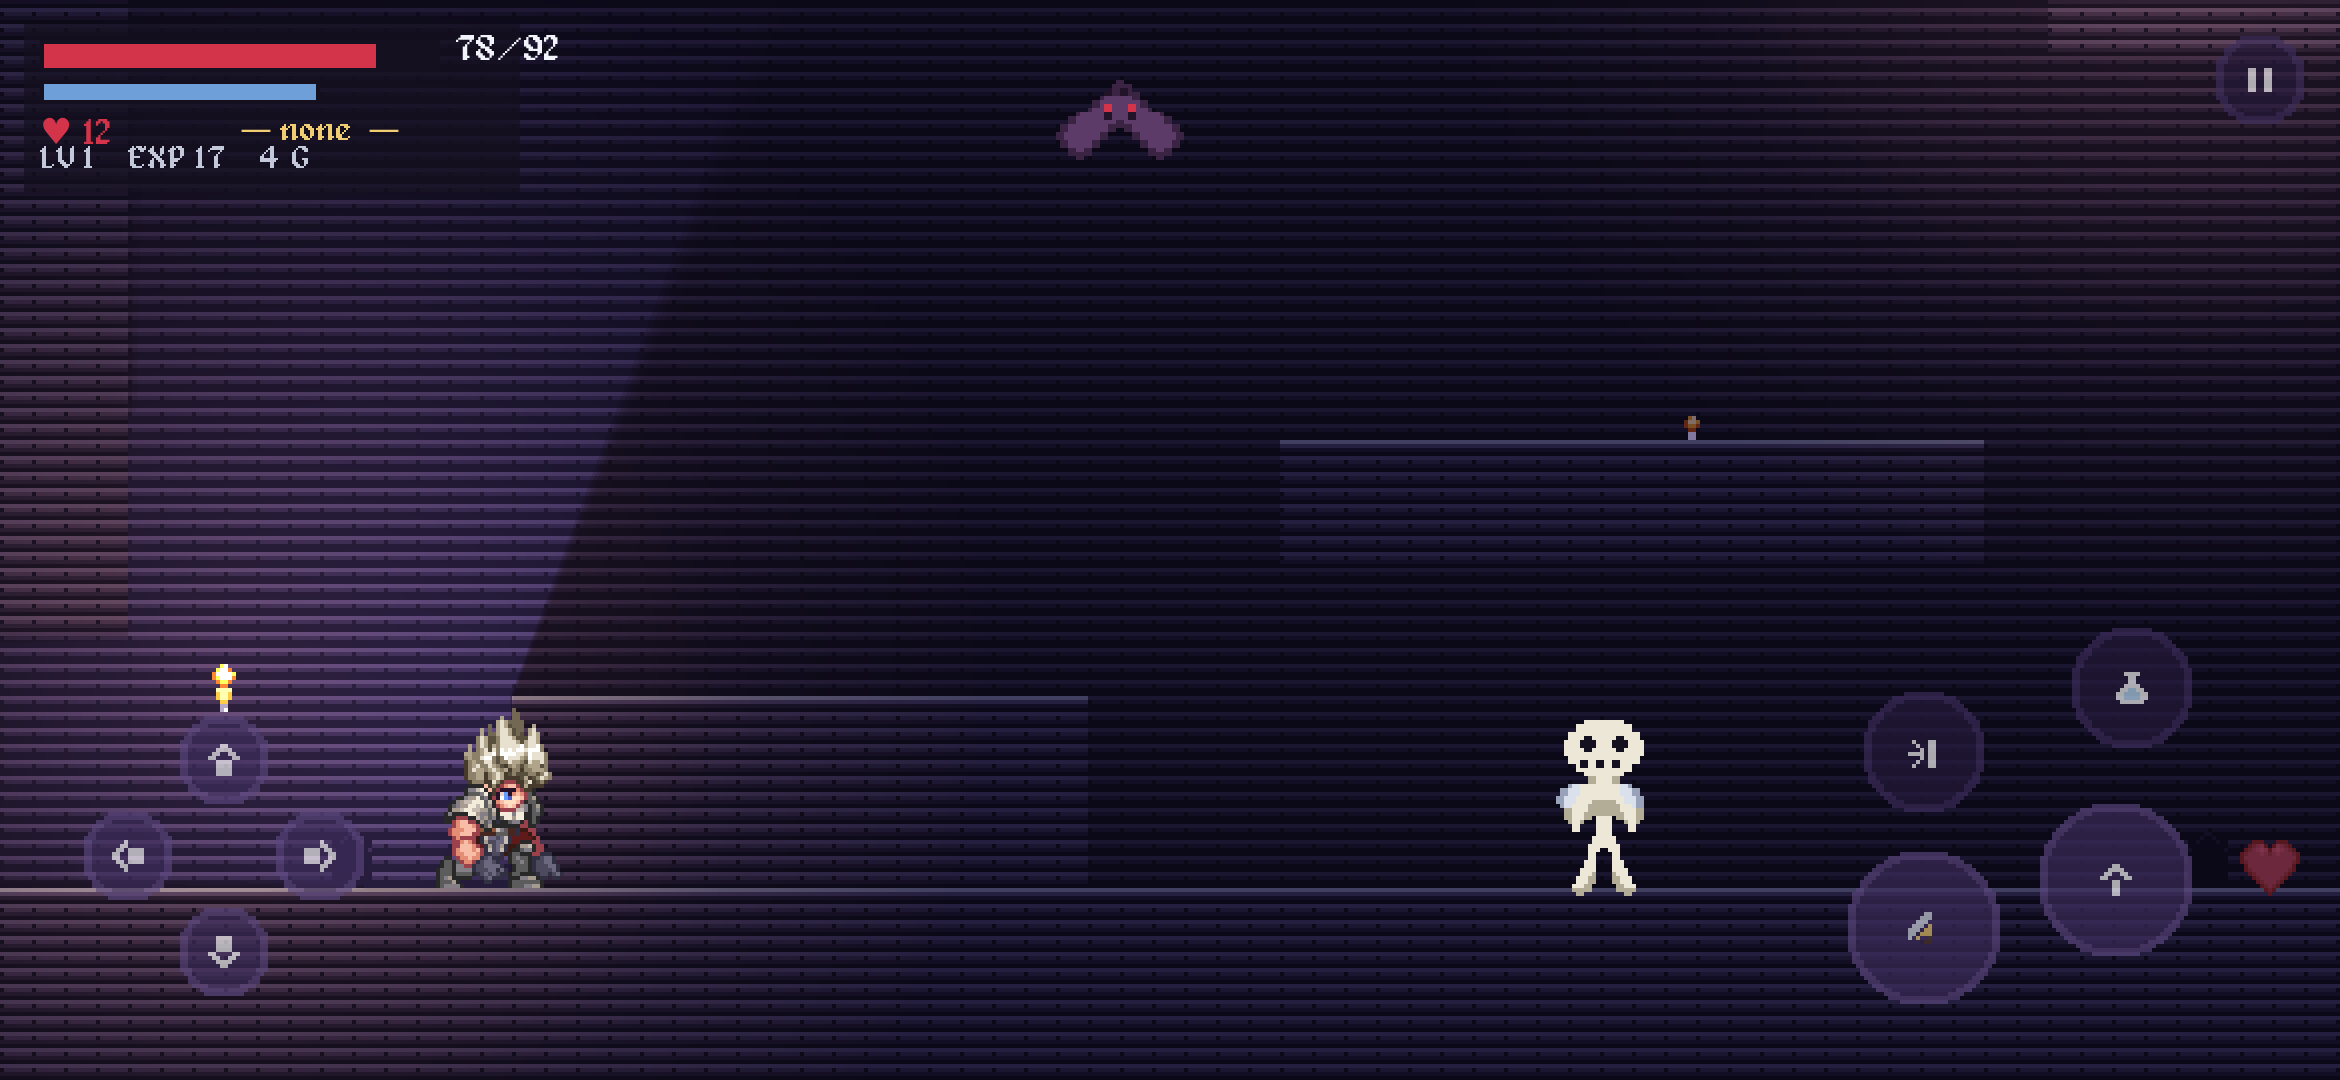
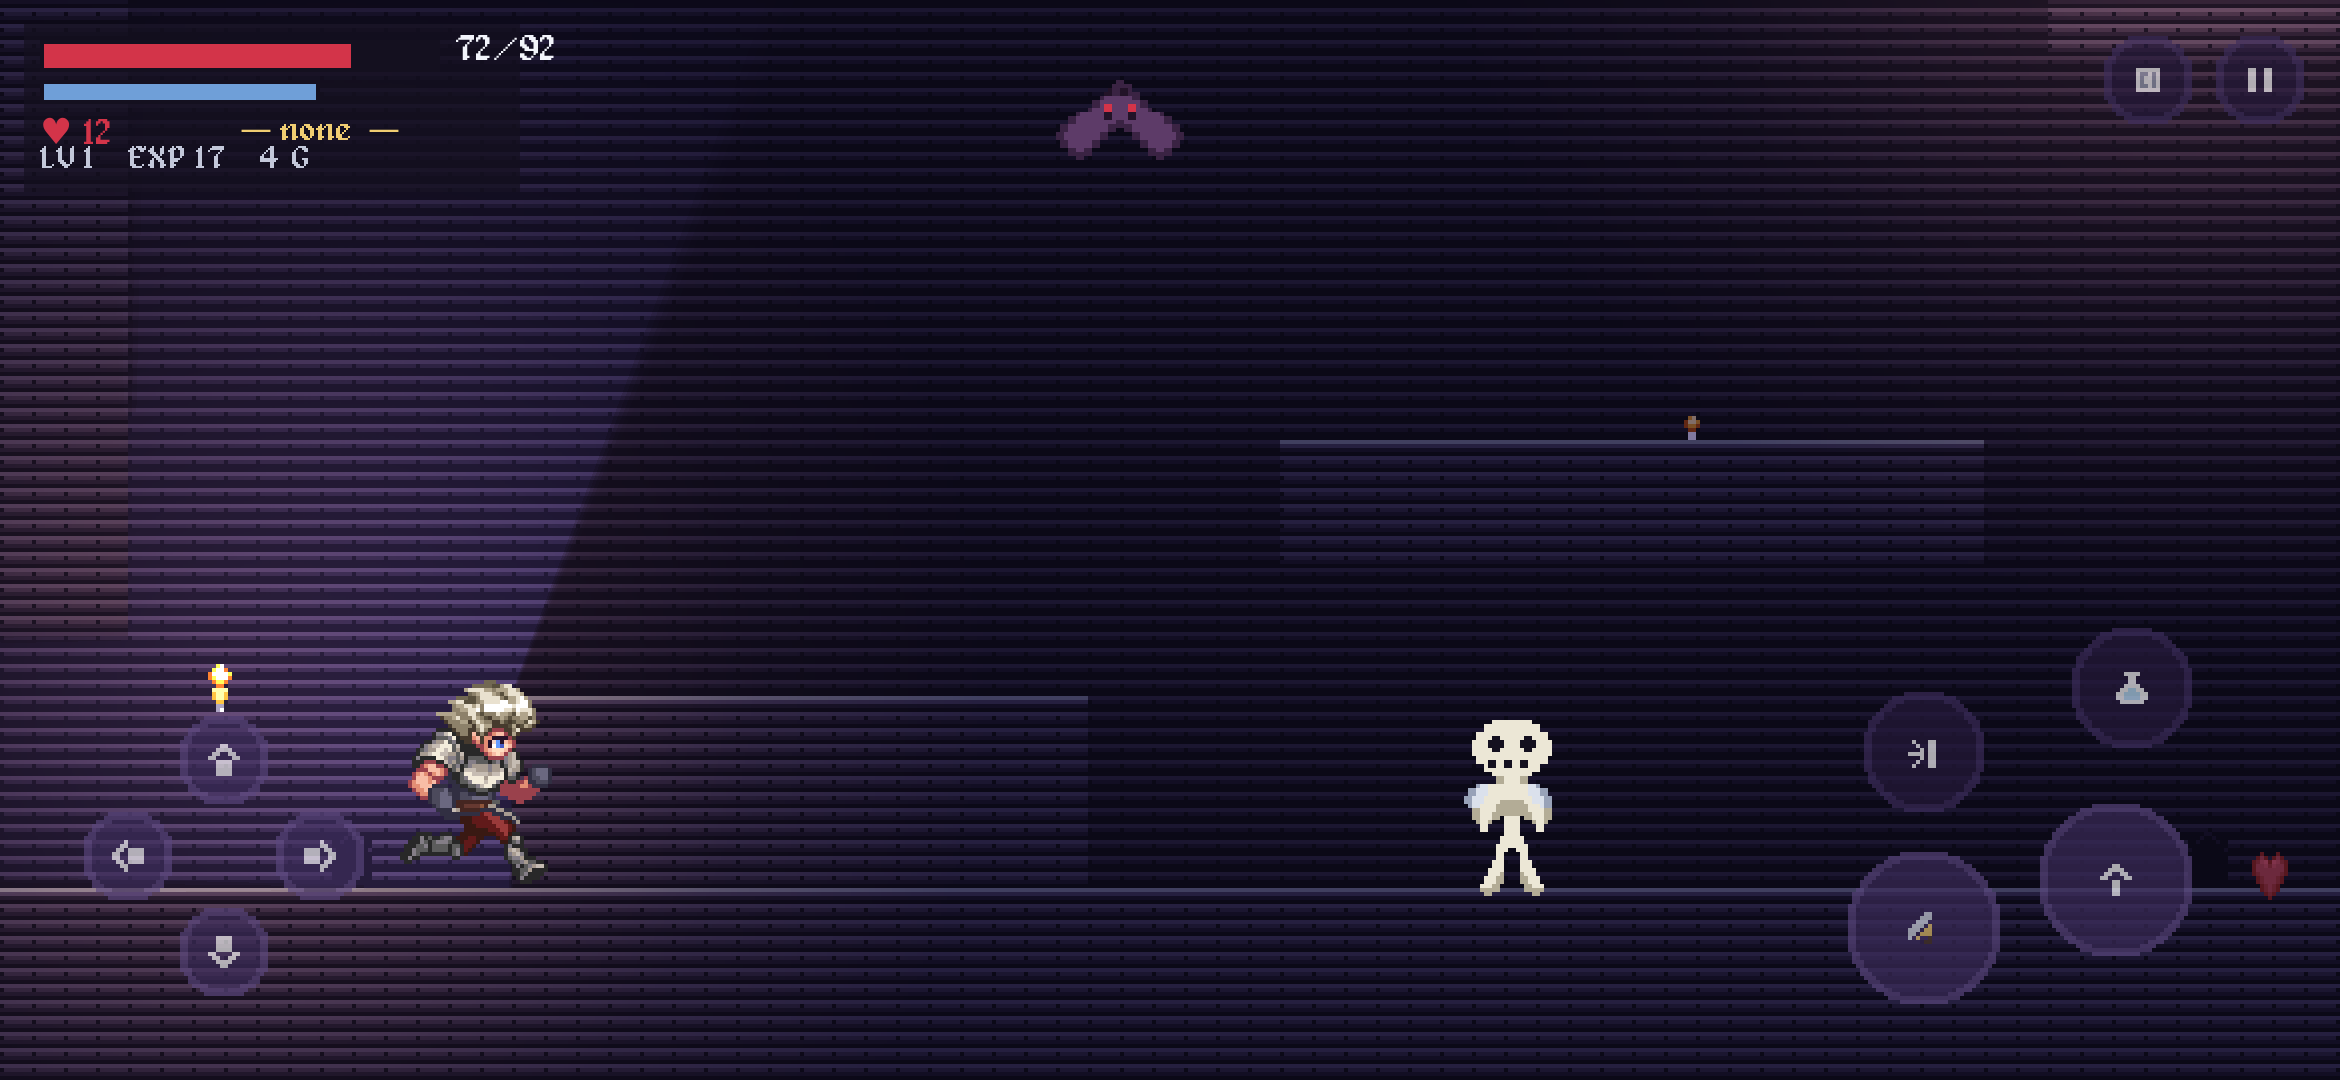
fix: make the APK actually finishable by touch
An Android readiness audit found that the first APK soft-locked touch players
out of their own pause menu — on the only input method this game targets.

TouchControls ran PROCESS_MODE_PAUSABLE and PauseMenu sets get_tree().paused,
so the moment the pause button did its job the entire touch layer froze,
including the pause button itself. pause_menu.tscn contains no Button node, and
the ui_confirm escape hatch is bound to Enter and Space with no touch or gamepad
binding. On a phone the only way out was to force-quit, losing everything since
the last save coffin. Every desktop test and screenshot missed it because a
keyboard always had Escape.

The touch layer now runs ALWAYS and withdraws its gameplay buttons in response
to EventBus.overlay_toggled, releasing any action still held so the player does
not resume mid-stride. Pause and map stay live — they are the way out.

Two more from the same audit:

* The map screen had no touch route whatsoever. `map_screen` was bound to Tab
  and joypad button 4 only, so a touch player could never open it. btn_map.png
  had been sitting unused in assets/art/ui since the pack import; it is now
  wired to a BtnMap control in the top-right corner.
* Android's Back button quit the app outright, discarding the run, because
  quit_on_go_back defaults to true and nothing handled
  NOTIFICATION_WM_GO_BACK_REQUEST. Back now closes an overlay, or opens the
  pause menu, and only quits from a root screen.
[…]

diff --git a/production/session-state/active.md b/production/session-state/active.md
@@ -21,7 +21,7 @@ with dynamic lighting, parallax and a full VFX layer.
 | Check | Command | Result |
 |---|---|---|
 | Room data | `python3 tools/ci/validate_rooms.py` | 11 rooms, 0 errors |
-| Unit + integration | `godot --headless --path . res://tests/test_runner.tscn` | 137 tests / 1429 assertions, all pass |
+| Unit + integration | `godot --headless --path . res://tests/test_runner.tscn` | 146 tests / 1449 assertions, all pass |
 | Runtime smoke + screenshots | `xvfb-run -a godot --path . --rendering-driver opengl3 res://tools/debug/capture_scene.tscn -- --out=/tmp/shots` | PASS, 17 screenshots, zero engine errors |
 | Title screen | same, with `-- --title` | PASS |
 | Save room | same, with `-- --room=chapel_landing --door=save` | PASS |
@@ -180,3 +180,35 @@ save/load against Android storage, the 256 MB memory ceiling, and installation
 on a real arm64/armv7 device. No emulator is available: the Android emulator
 images also come from the blocked host. The closest proxy run is the exported
 **Linux** build, which boots clean and prints `boot checks passed.`
+
+
+## Touch soft-lock (found by the readiness audit, after the first APK)
+
+The first APK was **unfinishable by touch**, the only input method the game
+targets. `TouchControls` was `PROCESS_MODE_PAUSABLE` and `PauseMenu` sets
+`get_tree().paused = true`, so tapping pause froze the entire touch layer —
+including the pause button. `pause_menu.tscn` has no `Button` node, and the
+`ui_confirm` escape hatch is bound to Enter and Space only. On a phone the sole
+way out was to force-quit, losing everything since the last coffin.
+
+Two more from the same audit:
+
+- **The map screen had no touch route at all** — `map_screen` was Tab or joypad
+  button 4. `btn_map.png` had been sitting unused in `assets/art/ui/` since the
+  pack import.
+- **Android's Back button quit the app instantly**, discarding the run, because
+  `quit_on_go_back` defaults to true and nothing handled
+  `NOTIFICATION_WM_GO_BACK_REQUEST`.
+
+Fixed: the touch layer runs `ALWAYS` and withdraws its gameplay buttons on
+`EventBus.overlay_toggled`, releasing any held action so nothing latches across
+the pause; `BtnMap` added; Back routes through `SceneDirector` to the pause menu
+and only quits from a root screen. Covered by
+`tests/integration/ui_touch_pause_test.gd` (9 tests).
+
+## Known limitation: Google Play targetSdk
+
+The APK targets SDK 35. Google Play requires 36 for new apps and updates from
+31 August 2026. Raising it needs `gradle_build/use_gradle_build=true`, which
+needs the real Android SDK — unavailable here, since `dl.google.com` is blocked
+by egress policy. Sideloading is unaffected; this only blocks a Play submission.

diff --git a/.claude/docs/technical-preferences.md b/.claude/docs/technical-preferences.md
@@ -48,7 +48,7 @@
   under assertion; every room built in an integration test.
 - **Required Tests**: Balance formulas, progression curve, health component,
   room graph integrity, tileset collision.
-- **Current status**: 137 tests / 1429 assertions, all passing.
+- **Current status**: 146 tests / 1449 assertions, all passing.
 
 ## Forbidden Patterns
 
@@ -74,6 +74,11 @@
 - Positioning UI at fixed viewport coordinates. The project stretches with
   `expand`, so a 19.5:9 phone gets a ~585x270 canvas and anything authored near
   x=480 lands mid-screen. Anchor to a corner.
+- `PROCESS_MODE_PAUSABLE` on the touch control layer. It contains the button
+  that pauses the game, so pausing freezes the only way back out and a
+  touch-only player must force-quit. Use `PROCESS_MODE_ALWAYS` and hide the
+  gameplay buttons on `EventBus.overlay_toggled`.
+- Prompting the player with a key name without checking there is a keyboard.
 
 ## Allowed Libraries / Addons
 
